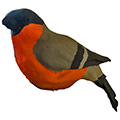
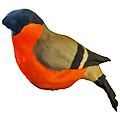
updates

Changed region(s): [[0.0, 0.05, 0.925, 0.775], [0.825, 0.725, 1.0, 0.95], [0.875, 0.625, 0.925, 0.725]]

diff --git a/papers/_posts/2026-03-13-leitao-island-bird-plumage.md b/papers/_posts/2026-03-13-leitao-island-bird-plumage.md
@@ -5,9 +5,9 @@ image: /images/papers/article-2026-leitao-island-bird-plumage.png
 authors: Leitão AV, Moya CDA, Lopes RJ, Ponti R, Covas R, Doutrelant.
 year: 2026
 ref: Leitão (2026) Journal of Evolutionary Biology
-journal: "Journal of Evolutionary Biology *in press*."
+journal: "Journal of Evolutionary Biology voag026."
 pdf: 
-doi:
+doi: doi.org/10.1093/jeb/voag026
 github: 
 ---
 
